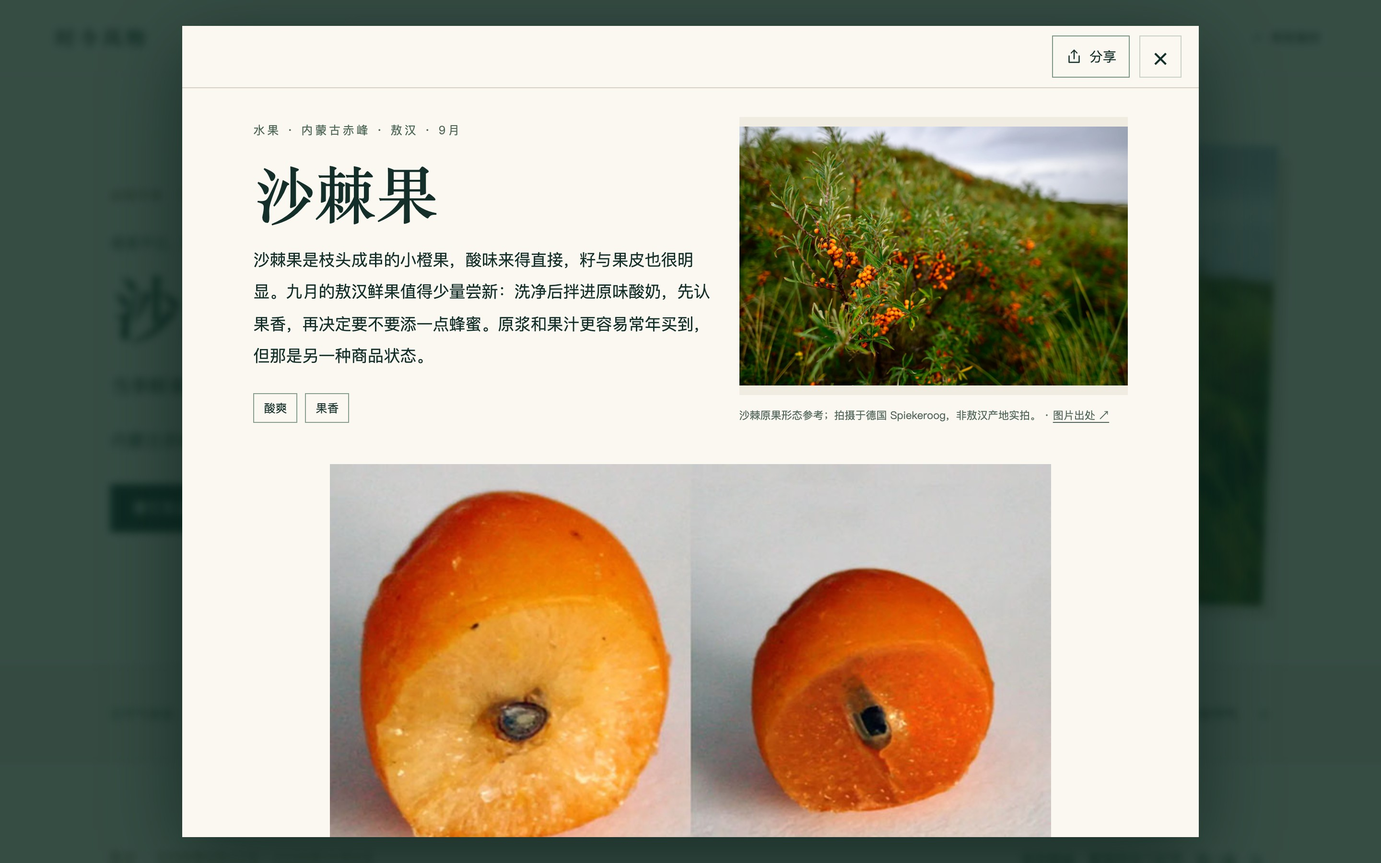
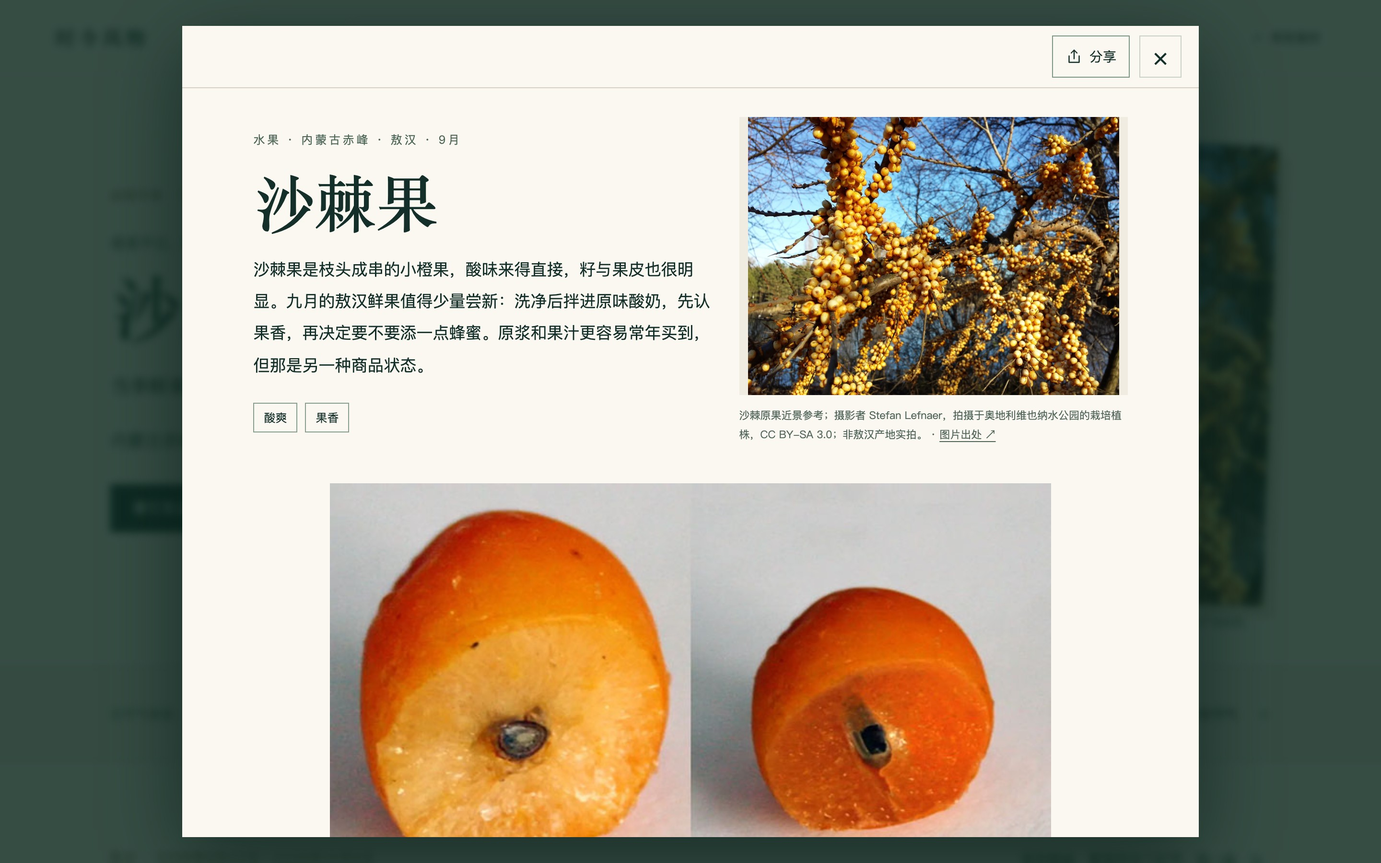
Improve food photo clarity and seasonal interlude

diff --git a/dist/app.js b/dist/app.js
@@ -64,23 +64,26 @@ function featuredAssignment(category){
 // Curated image roles affect presentation only; food facts and draw rules stay in the source data.
 const wholeSubjects=new Set(['lyg-shaguang-fish','ninghai-changjie-razor-clam','jintang-fresh-morel','shajiguo','lintong-huojing-shizi','juema','cizhousun']);
 const imageDimensions={'assets/shajiguo-cut.jpg':[720,405],'assets/lintong-huojing.webp':[600,450],'assets/juema-roots-enhanced.webp':[750,481],'assets/cizhousun-salad.jpg':[1400,929]};
-const shajiguoSrcset='assets/shajiguo-400.webp 400w, assets/shajiguo-800.webp 800w, assets/shajiguo-1200.webp 1200w, assets/shajiguo-1600.webp 1600w';
+const shajiguoSrcset='assets/shajiguo-400.webp 400w, assets/shajiguo-800.webp 800w, assets/shajiguo-1280.webp 1280w, assets/shajiguo-1600.webp 1600w';
+const shootSrcset='assets/cizhousun-shoot-400.webp 400w, assets/cizhousun-shoot-800.webp 800w, assets/cizhousun-shoot-1200.webp 1200w';
 function foodImageAttrs(src,slot='card'){
  if(src==='assets/shajiguo-400.webp'){
   const sizes={hero:'(max-width:520px) 86vw, (max-width:800px) 90vw, (max-width:1400px) 43vw, 603px','feature-card':'(max-width:520px) 110vw, (max-width:800px) 100vw, (max-width:1400px) 43vw, 603px',card:'(max-width:520px) 31vw, 16vw',recognition:'(max-width:520px) 86vw, (max-width:800px) 80vw, 405px',aside:'350px'};
-  return `srcset="${shajiguoSrcset}" sizes="${sizes[slot]||'100vw'}" width="400" height="267" decoding="async"`;
+  return `srcset="${shajiguoSrcset}" sizes="${sizes[slot]||'100vw'}" width="400" height="598" decoding="async"`;
  }
+ if(src==='assets/cizhousun-shoot-400.webp')return `srcset="${shootSrcset}" sizes="${slot==='recognition'?'(max-width:800px) 80vw, 405px':'(max-width:520px) 31vw, 16vw'}" width="400" height="300" decoding="async"`;
  const dimensions=imageDimensions[src];
  return dimensions?`width="${dimensions[0]}" height="${dimensions[1]}" decoding="async"`:'';
 }
 function foodVisual(food,role='appetite'){
  const homeFruitPhoto=role==='appetite'&&food.id==='shajiguo';
- const edible=role==='appetite'&&!homeFruitPhoto&&(food.dishImage||food.cutImage);
- const originalSrc=homeFruitPhoto?food.image:edible||(role==='recognition'?food.image:food.cardImage)||food.image||food.cardImage;
+ const homeShootPhoto=role==='appetite'&&food.id==='cizhousun';
+ const edible=role==='appetite'&&!homeFruitPhoto&&!homeShootPhoto&&(food.dishImage||food.cutImage);
+ const originalSrc=homeFruitPhoto||homeShootPhoto?food.image:edible||(role==='recognition'?food.image:food.cardImage)||food.image||food.cardImage;
  const src=originalSrc==='assets/shajiguo.jpg'?'assets/shajiguo-400.webp':originalSrc;
- const alt=homeFruitPhoto?food.imageAlt:edible?(food.dishImage?food.dishImageAlt:food.cutImageAlt):(role==='recognition'?food.imageAlt:food.cardImageAlt)||food.imageAlt||food.name;
+ const alt=homeFruitPhoto||homeShootPhoto?food.imageAlt:edible?(food.dishImage?food.dishImageAlt:food.cutImageAlt):(role==='recognition'?food.imageAlt:food.cardImageAlt)||food.imageAlt||food.name;
  const generated=/generated|示意/.test(`${src} ${alt}`);
- return {src,alt,fit:role==='recognition'&&wholeSubjects.has(food.id)?'contain':'cover',note:generated?'生成示意 · 非实物摄影':homeFruitPhoto?food.imageCaption:edible?(food.dishImage?'成菜参考':'鲜果可食状态'):food.cardNote||food.imageCaption||'形态参考 · 非产地鉴别'};
+ return {src,alt,fit:role==='recognition'&&wholeSubjects.has(food.id)?'contain':'cover',note:generated?'生成示意 · 非实物摄影':homeFruitPhoto?food.imageCaption:homeShootPhoto?food.cardNote:edible?(food.dishImage?'成菜参考':'鲜果可食状态'):food.cardNote||food.imageCaption||'形态参考 · 非产地鉴别'};
 }
 function renderTermRail(){
  $('terms').innerHTML=termWindow.map((event,index)=>`<button class="${event===selectedTerm?'active':''}" data-term="${index}" aria-current="${event===selectedTerm?'date':'false'}"><small>${dateText(event.time,true)}</small><strong>${termNames[event.index]}</strong></button>`).join('');
@@ -116,7 +119,7 @@ function renderSeason(){
  $('seasonIntro').textContent=visibleList.length?'有些鲜味，要等到这个时节。挑一味，认一认，再把它端上桌。':`这个节气暂时没有${categoryNames[selectedCategory]}风物。`;
  $('seasonCards').innerHTML=visibleList.length?visibleList.map((food,index)=>{
  const media=foodVisual(food,index<3?'appetite':'recognition');
- return `<article class="season-list-card ${index===0?'editorial-feature':index<3?'editorial-side':'editorial-brief'}"><figure class="season-list-photo">${media.src?`<button data-food="${food.id}" class="season-list-image-button" aria-label="查看${food.name}详情"><img src="${media.src}" alt="${media.alt}" ${foodImageAttrs(media.src,index===0?'feature-card':'card')} style="object-fit:${media.fit}" loading="lazy" decoding="async"></button>`:'<div class="season-list-image-empty" aria-hidden="true">时令风物</div>'}<figcaption class="photo-credit">${media.note}</figcaption></figure><div><small>${foodSeasonMeta(food,foodMonth,food.cardLabel||food.region)}</small><h3><button data-food="${food.id}" class="season-list-name">${nameWithIcon(food)}</button></h3><p>${food.short}</p><button data-food="${food.id}" data-recipe="true" aria-label="直接看${food.name}做法">看它怎么吃 <span aria-hidden="true">↗</span></button></div></article>${index===2?`<aside class="season-interlude"><img src="assets/jieqi/${termSlugs[selectedTerm.index]}.svg" alt="" loading="lazy"><div><p class="kicker">山川有时 · 鲜味有期</p><p>${termLines[selectedTerm.index]}</p></div><a href="tarot.html">今晚吃什么？问问牌桌 ↗</a></aside>`:''}`;
+ return `<article class="season-list-card ${index===0?'editorial-feature':index<3?'editorial-side':'editorial-brief'}"><figure class="season-list-photo">${media.src?`<button data-food="${food.id}" class="season-list-image-button" aria-label="查看${food.name}详情"><img src="${media.src}" alt="${media.alt}" ${foodImageAttrs(media.src,index===0?'feature-card':'card')} style="object-fit:${media.fit}" loading="lazy" decoding="async"></button>`:'<div class="season-list-image-empty" aria-hidden="true">时令风物</div>'}<figcaption class="photo-credit">${media.note}</figcaption></figure><div><small>${foodSeasonMeta(food,foodMonth,food.cardLabel||food.region)}</small><h3><button data-food="${food.id}" class="season-list-name">${nameWithIcon(food)}</button></h3><p>${food.short}</p><button data-food="${food.id}" data-recipe="true" aria-label="直接看${food.name}做法">看它怎么吃 <span aria-hidden="true">↗</span></button></div></article>${index===2?`<aside class="season-interlude term-art-${selectedTerm.index%4}"><img src="assets/jieqi/${termSlugs[selectedTerm.index]}.svg" alt="" loading="lazy"><div><p class="kicker">山川有时 · 鲜味有期</p><p>${termLines[selectedTerm.index]}</p></div><a href="tarot.html">今晚吃什么？问问牌桌 ↗</a></aside>`:''}`;
  }).join(''):`<p class="empty-month category-empty">本节气适合尝的几味风物都在上面了。</p>`;
   document.querySelectorAll('#hero [data-food],#seasonCards [data-food]').forEach(b=>b.onclick=()=>openFood(b.dataset.food,true,b.dataset.recipe==='true'));
 }

diff --git a/dist/fengwu-design.css b/dist/fengwu-design.css
@@ -32,8 +32,8 @@
 .editorial-feature .season-list-photo{height:clamp(330px,33vw,470px);width:100%;flex:none}
 .editorial-feature h3{font-size:36px}.editorial-feature>div{width:100%;align-self:start;padding-bottom:20px}
 .editorial-side{grid-column:2}.editorial-brief .season-list-photo{min-height:180px}
-.season-interlude{grid-column:1/-1;display:flex;align-items:center;gap:28px;margin:6px 0 18px;padding:28px 34px;background:#edeadf;min-width:0;border-top:1px solid #d7cfba;border-bottom:1px solid #d7cfba}
-.season-interlude img{width:110px;height:90px;object-fit:cover;flex:none}.season-interlude .kicker{font-size:10px;margin:0 0 8px}.season-interlude div>p:last-child{font:22px/1.7 'Songti SC','SimSun',serif;margin:0}.season-interlude a{margin-left:auto;max-width:180px;font-size:13px;line-height:1.8;color:var(--ink);min-height:44px;display:flex;align-items:center;text-underline-offset:5px}
+.season-interlude{grid-column:1/-1;display:grid;grid-template-columns:minmax(260px,34%) 1fr auto;align-items:center;gap:28px;margin:6px 0 18px;padding:28px 34px;background:#edeadf;min-width:0;border-top:1px solid #d7cfba;border-bottom:1px solid #d7cfba}
+.season-interlude img{width:100%;height:100%;min-height:132px;max-height:214px;object-fit:cover;flex:none}.season-interlude.term-art-0 img{height:148px}.season-interlude.term-art-1 img{height:184px}.season-interlude.term-art-2 img{height:214px}.season-interlude.term-art-3 img{height:164px}.season-interlude .kicker{font-size:10px;margin:0 0 8px}.season-interlude div>p:last-child{font:22px/1.7 'Songti SC','SimSun',serif;margin:0}.season-interlude a{margin-left:auto;max-width:180px;font-size:13px;line-height:1.8;color:var(--ink);min-height:44px;display:flex;align-items:center;text-underline-offset:5px}
 .map-prompt{margin-bottom:70px;min-height:76px}
 /* A readable article, with raw recognition and appetite given different jobs. */
 .detail-dialog{width:min(1060px,96vw)}.detail-actions{background:#faf8f1f5;border-color:var(--line)}.detail-actions .dialog-close{width:44px;height:44px}.detail-share{min-height:44px;background:var(--paper);color:var(--ink)}
@@ -56,7 +56,7 @@
  #hero.term-hero{grid-template-columns:minmax(0,1fr);grid-template-areas:'copy' 'photo';padding:30px 7vw 60px;gap:24px}.season-feature-copy{padding:0}#hero .season-feature-copy h1{font-size:clamp(42px,12vw,60px);margin-bottom:14px}#hero .season-feature-term{margin:14px 0 5px!important;font-size:13px!important}#hero .season-feature-summary{font-size:18px!important;line-height:1.8!important;margin-bottom:12px!important}.season-feature-meta{font-size:12px;margin-bottom:18px}.season-feature-cta{min-height:48px;width:100%;justify-content:space-between}.season-feature-photo{height:clamp(220px,68vw,360px);width:100%;transform:rotate(1deg)}.feature-caption{padding-top:15px;transform:rotate(-1deg);font-size:10px}.season-feature-image-button{box-shadow:7px 7px 0 #e5dfcf}
  .term-strip{padding:18px 7vw;min-height:0}.term-strip .strip-label{display:flex;gap:12px}.strip-label span{font-size:11px}.strip-label strong{font-size:24px}.term-almanac{width:100%;margin:8px 0 0}.term-almanac summary{justify-content:space-between;border-top:1px solid var(--line);padding-top:9px}
  .section-intro{padding:42px 7vw 18px;display:block}.section-intro h2{font-size:27px}.section-intro>p{max-width:100%;font-size:13px;margin-bottom:0}.section-intro .kicker{letter-spacing:.07em;font-size:10px}.category-filter{padding:0 7vw 26px;gap:6px}.category-filter button{padding:0 11px;font-size:12px;gap:6px}
- .season-cards{grid-template-columns:1fr;gap:24px;padding:0 7vw 50px}.editorial-feature{grid-column:auto;grid-row:auto;gap:18px}.editorial-side{grid-column:auto}.editorial-feature .season-list-photo{height:clamp(240px,78vw,360px)}.editorial-feature h3{font-size:32px}.season-list-card{grid-template-columns:36% 1fr;gap:16px;padding-bottom:20px}.season-list-photo,.editorial-brief .season-list-photo{min-height:175px}.season-list-card small{font-size:11px}.season-list-card h3{font-size:23px}.season-list-card p{font-size:13px;line-height:1.8}.photo-credit{font-size:9px;line-height:1.6;padding:5px 6px}.season-interlude{display:grid;grid-template-columns:64px 1fr;gap:16px;padding:22px 15px;margin:0}.season-interlude img{width:64px;height:80px}.season-interlude .kicker{font-size:9px;letter-spacing:.06em}.season-interlude div>p:last-child{font-size:19px}.season-interlude a{grid-column:2;max-width:none;margin:0;font-size:12px}.map-prompt{width:86%;padding:16px 20px;margin-bottom:55px;min-height:72px}
+ .season-cards{grid-template-columns:1fr;gap:24px;padding:0 7vw 50px}.editorial-feature{grid-column:auto;grid-row:auto;gap:18px}.editorial-side{grid-column:auto}.editorial-feature .season-list-photo{height:clamp(240px,78vw,360px)}.editorial-feature h3{font-size:32px}.season-list-card{grid-template-columns:36% 1fr;gap:16px;padding-bottom:20px}.season-list-photo,.editorial-brief .season-list-photo{min-height:175px}.season-list-card small{font-size:11px}.season-list-card h3{font-size:23px}.season-list-card p{font-size:13px;line-height:1.8}.photo-credit{font-size:9px;line-height:1.6;padding:5px 6px}.season-interlude{grid-template-columns:1fr;gap:16px;padding:20px 15px;margin:0}.season-interlude img{width:100%;min-height:0;max-height:none}.season-interlude.term-art-0 img{height:148px}.season-interlude.term-art-1 img{height:176px}.season-interlude.term-art-2 img{height:198px}.season-interlude.term-art-3 img{height:160px}.season-interlude .kicker{font-size:9px;letter-spacing:.06em}.season-interlude div>p:last-child{font-size:19px}.season-interlude a{grid-column:auto;max-width:none;margin:0;font-size:12px}.map-prompt{width:86%;padding:16px 20px;margin-bottom:55px;min-height:72px}
  .detail-dialog{width:100vw;max-height:100dvh;height:100dvh;margin:0;border-radius:0}.detail-intro{grid-template-columns:1fr;gap:24px;padding:28px 7%}.detail-hero h1{font-size:42px}.detail-hero>p{font-size:16px}.recognition-photo img{height:220px;object-position:center}.detail-photo{padding-bottom:18px}.detail-photo img{max-height:360px}.detail-body section{padding:30px 0}.detail-body h2{font-size:25px}.detail-num{font-size:11px}.detail-tags{margin-top:16px}.recipe-teaser{padding:16px;gap:8px}.recipe-teaser strong{line-height:1.6}.recipe-teaser button{width:100%;margin:8px 0 0}.sensory>div{grid-template-columns:56px 1fr;gap:12px}.detail-next>div{grid-template-columns:1fr}.detail-body .detail-sources{padding:18px}.detail-sources ol{padding-left:20px}.detail-body section>p:not(.detail-num){font-size:15px;line-height:1.95}
  .map-popover{transform:none}.map-toolbar{padding:0 6vw 10px}.map-month-rail{padding:0 6vw}.flavor-space{height:390px;min-height:390px}.flavor-selected-photo{height:220px}.flavor-aside h2{font-size:32px}.flavor-meaning{font-size:10px}
 }

diff --git a/dist/credits.html b/dist/credits.html
@@ -14,7 +14,7 @@
 <li>软枣猕猴桃：<a href="https://commons.wikimedia.org/wiki/File:20240928_Kiwibeeren_-_actinidia_arguta_anagoria.jpg">anagoria / Wikimedia Commons</a>，<a href="https://creativecommons.org/licenses/by-sa/4.0/">CC BY-SA 4.0</a>。</li>
 <li>干黄花菜：<a href="https://commons.wikimedia.org/wiki/File:Dried_day_lily.jpg">François Nguyen / Wikimedia Commons</a>，<a href="https://creativecommons.org/licenses/by/2.0/">CC BY 2.0</a>。</li>
 <li>刺梨：<a href="https://commons.wikimedia.org/wiki/File:Rosa_roxburghii_fruit_33597.JPG">Michael Wolf / Wikimedia Commons</a>，<a href="https://creativecommons.org/licenses/by-sa/3.0/">CC BY-SA 3.0</a>；拍摄于奥地利林茨。</li>
-<li>沙棘果：首页与辨识图使用 Stephan Sprinz / Wikimedia Commons 的<a href="https://commons.wikimedia.org/wiki/File:Sanddorn_(Hippophae_rhamnoides)_auf_Spiekeroog_02.jpg">原始照片</a>（5593×3729），按显示尺寸缩小并转换为 sRGB WebP；<a href="https://creativecommons.org/licenses/by/4.0/">CC BY 4.0</a>。照片拍摄于德国 Spiekeroog，非敖汉产地实拍。</li>
+<li>沙棘果：首页与辨识图使用 Hans Hillewaert / Wikimedia Commons 的<a href="https://commons.wikimedia.org/wiki/File:Hippophae_rhamnoides.jpg">原始照片</a>（2012×3006），按显示尺寸缩小并转换为 sRGB WebP，衍生版本亦以 <a href="https://creativecommons.org/licenses/by-sa/3.0/">CC BY-SA 3.0</a> 授权；照片展示果实近景，拍摄于比利时 De Haan，非敖汉产地实拍。</li>
 <li>芡实植株：<a href="https://commons.wikimedia.org/wiki/File:Euryale_ferox,_Jard%C3%ADn_Bot%C3%A1nico,_M%C3%BAnich,_Alemania,_2013-09-08,_DD_01.JPG">Diego Delso / Wikimedia Commons</a>，<a href="https://creativecommons.org/licenses/by-sa/3.0/">CC BY-SA 3.0</a>；拍摄于德国慕尼黑植物园。</li>
 <li>川梨花：<a href="https://commons.wikimedia.org/wiki/File:Flowers_of_Pyrus_pashia.jpg">Frank Schulenburg / Wikimedia Commons</a>，<a href="https://creativecommons.org/licenses/by-sa/3.0/">CC BY-SA 3.0</a>；拍摄于美国加州。</li>
 <li>苦刺花：<a href="https://commons.wikimedia.org/wiki/File:Sophora_davidii_-_Floraison-2.jpg">Denis.prévôt / Wikimedia Commons</a>，<a href="https://creativecommons.org/licenses/by-sa/3.0/">CC BY-SA 3.0</a>；拍摄于法国斯特拉斯堡。</li>
@@ -22,7 +22,7 @@
 <li>蒌蒿嫩茎：<a href="https://commons.wikimedia.org/wiki/File:Artemisia_selengensis_(1).jpg">François Nguyen / Wikimedia Commons</a>，<a href="https://creativecommons.org/licenses/by/2.0/">CC BY 2.0</a>；拍摄于江苏。</li>
 <li>塌棵菜：<a href="https://commons.wikimedia.org/wiki/File:Brassica_rapa_subsp_narinosa_-_Kanagawa_Japan_2026_Jan_3.jpeg">Nesnad / Wikimedia Commons</a>，<a href="https://creativecommons.org/licenses/by/4.0/">CC BY 4.0</a>；拍摄于日本神奈川。</li>
 <li>枞菌形态参考：<a href="https://commons.wikimedia.org/wiki/File:Lactarius_deliciosus_(1169941953).jpg">Sandra Cohen-Rose、Colin Rose / Wikimedia Commons</a>，<a href="https://creativecommons.org/licenses/by/2.0/">CC BY 2.0</a>；松乳菇（Lactarius deliciosus），并非所有地方俗称“枞菌”的菌种。</li>
-<li>竹笋形态参考：<a href="https://commons.wikimedia.org/wiki/File:Bamboo_shoot-phyllostachys_parvifolia-jx1241c.jpg">Jodarom / Wikimedia Commons</a>，<a href="https://creativecommons.org/licenses/by/3.0/">CC BY 3.0</a>；Phyllostachys parvifolia，非腾冲刺竹品种实拍。</li>
+<li>新鲜竹笋形态参考：Gaurav Dhwaj Khadka / Wikimedia Commons 的<a href="https://commons.wikimedia.org/wiki/File:Bamboo_Shoot.jpg">实拍原图</a>（4032×3024）；响应式 WebP 衍生版本以 <a href="https://creativecommons.org/licenses/by-sa/4.0/">CC BY-SA 4.0</a> 授权。照片拍摄于尼泊尔加德满都，竹种未注明，不代表腾冲刺竹地方品种。</li>
 <li>鲜鸡头米颗粒形态示意图：OpenAI 图像生成工具，2026 年 9 月制作；非实物照片。</li>
 <li>地图地形、海岸与水系：<a href="https://www.naturalearthdata.com/about/terms-of-use/">Natural Earth</a>，公共领域。</li>
 <li>海胆形态参考：<a href="https://commons.wikimedia.org/wiki/File:Strongylocentrotus_nudus.jpg">Totti / Wikimedia Commons</a>，<a href="https://creativecommons.org/licenses/by-sa/4.0/">CC BY-SA 4.0</a>；拍摄于日本水族馆。</li>

diff --git a/dist/editorial.js b/dist/editorial.js
@@ -262,7 +262,7 @@ for(const food of window.FOODS){
      {name:'贵州普定',lat:26.33,lon:105.75,months:[7],precision:'month',source:'https://gz.people.com.cn/n2/2026/0721/c194849-41645206.html'}]:
     [{name:food.region,lat:food.lat,lon:food.lon,months:food.peakMonths,precision:food.seasonPrecision||'month',source:food.sources[0][1]}];
   if(food.id==='cili'){food.image='assets/cili.jpg';food.imageAlt='枝头成熟的刺梨果实';food.imageCaption='刺梨原果形态参考；照片拍摄于奥地利林茨，并非贵州清镇。'}
-  if(food.id==='shajiguo'){food.image='assets/shajiguo.jpg';food.imageAlt='枝头簇生的橙黄色沙棘果';food.imageCaption='沙棘原果形态参考；拍摄于德国 Spiekeroog，非敖汉产地实拍。'}
+  if(food.id==='shajiguo'){food.image='assets/shajiguo.jpg';food.imageAlt='橙黄色沙棘果实成簇贴着枝条生长，果皮表面和叶片清晰可见';food.imageCaption='沙棘果近景形态参考；摄影者 Hans Hillewaert，拍摄于比利时 De Haan，CC BY-SA 3.0；非敖汉产地实拍。'}
 }
 const PHOTO_UPDATES={
   'nanhu-ling':{dishImage:'assets/nanhu-ling-peeled-cooked.jpg',dishImageAlt:'煮熟剥壳的菱肉拌少许葱花盛盘',dishCaption:'剥去硬壳，熟菱肉白里透粉；趁温热吃，先是清甜，嚼下去有紧实的粉糯。'},
@@ -328,10 +328,10 @@ const PAIR_NOTES={
 for(const food of window.FOODS)if(PAIR_NOTES[food.id])food.pair=PAIR_NOTES[food.id];
 
 Object.assign(window.FOODS.find(food=>food.id==='cizhousun'),{
-  image:'assets/cizhousun-bamboo-shoot.jpg',
-  imageAlt:'生长中的竹笋，带笋箨和叶片',
-  imageCaption:'Phyllostachys parvifolia 竹笋形态参考；摄影者 Jodarom，CC BY 3.0。并非腾冲刺竹的地方品种实拍。',
-  cardNote:'竹笋形态参考 · 非腾冲刺竹实拍'
+  image:'assets/cizhousun-shoot-400.webp',
+  imageAlt:'市场上并排摆放的数支新鲜去壳竹笋，淡黄色笋肉清晰可见',
+  imageCaption:'新鲜竹笋形态参考；摄影者 Gaurav Dhwaj Khadka，拍摄于尼泊尔加德满都，CC BY-SA 4.0；非腾冲刺竹地方品种实拍。',
+  cardNote:'新鲜竹笋实拍参考 · 非腾冲刺竹实拍'
 });
 Object.assign(window.FOODS.find(food=>food.id==='congjun'),{
   image:'assets/congjun-lactarius-deliciosus.jpg',

diff --git a/docs/FOOD_PHOTO_CLARITY_QA.md b/docs/FOOD_PHOTO_CLARITY_QA.md
@@ -1,54 +1,40 @@
-# 食品实拍图清晰度优化记录
+# 食品实拍图清晰度与版面复核
 
-基于 GitHub `main` 的 `60f2d2d5e809f184420e7f33e207fe9e097269a5`。改动限于食品照片的尺寸信息、裁切方式和沙棘响应式加载；没有改网站整体样式、食品数据或卡牌图片。
+依据仓库基线 `main@60f2d2d5e809f184420e7f33e207fe9e097269a5`；此前未提交状态先行保留。此次只处理食品实拍、图片响应式加载、食品图片说明，以及用户指出的节气插图尺寸和笋图可辨识度；不改卡牌插画和全站风格。
 
-## 改动与来源
+## 本轮可见改动
 
-| 图片 | 原有状态 | 本次处理 | 来源与许可 |
-| --- | --- | --- | --- |
-| 沙棘首页大图、详情辨识图 | 首页使用 `shajiguo-cut.jpg`（720×405、50,624 B）并在近方形画框中 `cover`；详情辨识图也用较小图 | 改用枝头整果实拍；由原片等比例生成 400、800、1200、1600 px 宽 WebP，加入 `srcset`/`sizes`/宽高，按显示槽位和密度选择；首页大图优先加载，列表继续懒加载；辨识图完整显示 | Stephan Sprinz / Wikimedia Commons，[原图及记录](https://commons.wikimedia.org/wiki/File:Sanddorn_(Hippophae_rhamnoides)_auf_Spiekeroog_02.jpg)，CC BY 4.0。原片 5593×3729，保存在 `source-images/shajiguo-original-commons.jpg`。拍摄于德国 Spiekeroog，仅作同种形态参考，不代表敖汉产地。 |
-
-原片已有嵌入 sRGB 配置。本次只做 Lanczos 等比例缩小、转 sRGB WebP（质量 90）；不裁切、不降噪、不锐化、不重绘、不生成细节。原片 SHA-256、署名和许可也记录于 `IMAGE_REGISTER.md` 与站内图片出处页。
-
-| 输出文件 | 尺寸 | 文件体积 |
-| --- | ---: | ---: |
-| `shajiguo-400.webp` | 400×267 | 33,198 B |
-| `shajiguo-800.webp` | 800×533 | 86,756 B |
-| `shajiguo-1200.webp` | 1200×800 | 147,378 B |
-| `shajiguo-1600.webp` | 1600×1067 | 212,882 B |
-
-## 重点照片盘点
-
-| 文件 | 源图/当前尺寸 | 展示与裁切 | 来源和许可 | 结论 |
-| --- | --- | --- | --- | --- |
-| `shajiguo-cut.jpg` | 720×405 | 首页原先近方形 `cover`；详情约 335×189（390px）或 752×423（1440px） | Finess 产品资料；未标开放许可，摄影者及品种信息待核 | 首页不再用。保留详情原图，等待许可明确、同品种且同食用部位的高清照片。1440px/DPR2 下源像素不足。 |
-| `lintong-huojing.webp` | 600×450 | 详情辨识图完整显示，不裁切 | FreshPlaza 报道图；作者及开放许可未注明，登记尺寸即 600×450 | 未找到有许可依据的同图高清原片；保留，待替换。现有 `lintong-huojing-cut.jpg` 为另一张 1080×720 详情食用状态图，不冒充同一原片。 |
-| `juema-roots-enhanced.webp` | 750×481；原文件 `juema-roots.png` 同尺寸 | 详情辨识图完整显示 | 石渠县政府页面配图；摄影者与开放许可未注明 | 登记显示它已做过轻微对比度、锐度增强。本次不再锐化、不放大、不改图，待高清授权来源。 |
-| `cizhousun-salad.jpg` | 站内 1400×929；登记原图 2448×1624 | 列表/详情使用既有裁切 | 下厨房用户食谱；页面未标开放许可。现图嵌入 Display P3 配置 | 未取得清晰许可前不复制原图或替换。若授权核实，应按原图尺寸裁切并保留/正确转换色彩配置。 |
-
-上述重点文件的 `width`/`height` 属性现按登记尺寸填写，避免加载时版面跳动。沙棘、临潼火晶柿、蕨麻和刺竹笋的辨识图改为完整显示，防止辨识部位被裁掉；不对已经增强过的蕨麻图叠加滤镜。
-
-## 前后检查
-
-Playwright 模拟浏览器，390、320、1440 CSS px，DPR 2。截图是 JPEG 90 的浏览器截图；320px 下另以根字号 200% 做布局放大模拟。没有使用微信或真机验收。
-
-| 视图 | 改前 | 改后 |
+| 区域 | 修改 | 证据与许可 |
 | --- | --- | --- |
-| 首页 390px | [截图](photo-clarity-evidence/before-home-390.jpg) | [截图](photo-clarity-evidence/after-home-390.jpg) |
-| 首页 1440px | [截图](photo-clarity-evidence/before-home-1440.jpg) | [截图](photo-clarity-evidence/after-home-1440.jpg) |
-| 列表 390px | [截图](photo-clarity-evidence/before-list-390.jpg) | [截图](photo-clarity-evidence/after-list-390.jpg) |
-| 列表 1440px | [截图](photo-clarity-evidence/before-list-1440.jpg) | [截图](photo-clarity-evidence/after-list-1440.jpg) |
-| 沙棘详情 390px / 1440px | — | [390px](photo-clarity-evidence/after-detail-390.jpg) · [1440px](photo-clarity-evidence/after-detail-1440.jpg) |
-| 首页 320px / 文字放大模拟 | — | [320px](photo-clarity-evidence/after-home-320.jpg) · [200% 模拟](photo-clarity-evidence/after-text-200-320.jpg) |
+| 沙棘首页主图及详情辨识图 | 首页原为 720×405 剖面照，在近方形主图框中 `cover` 后果实细节不足。换成同种沙棘果实近景，原图 2012×3006；生成 400、800、1280、1600px 宽 sRGB WebP，保持原比例，加入 `srcset`/`sizes` 和尺寸属性。画框仍按 `cover` 局部显示；原图和完整比例版本保留。 | [Hans Hillewaert 原图及授权](https://commons.wikimedia.org/wiki/File:Hippophae_rhamnoides.jpg)，CC BY-SA 3.0；比利时 De Haan 拍摄，仅为同种形态参考，不代表敖汉产地。原图保存在 `docs/source-images/shajiguo-original-commons.jpg`，SHA-256 和衍生文件记录见 `IMAGE_REGISTER.md`。 |
+| 刺竹笋列表卡与详情辨识图 | 列表卡以前优先显示凉拌笋条，食材本身不醒目。现在展示多支新鲜去壳竹笋实拍，并生成 400、800、1200px WebP 版本；成菜照片仍按原用途留在详情。 | [Gaurav Dhwaj Khadka 原图及授权](https://commons.wikimedia.org/wiki/File:Bamboo_Shoot.jpg)，CC BY-SA 4.0；尼泊尔加德满都市场照片。照片未标竹种，故明确标为通用形态参考，不声称是腾冲刺竹品种。原图和 SHA-256 见 `IMAGE_REGISTER.md`。 |
+| 节气插段 | 保留原有节气 SVG 插画与文字，图片由统一小方块放大为主图，并依节气索引设置四种高度，手机端改为上下编排。当前秋分图在 390px 视口为 305×176px，在 1440px 视口为 388×184px。 | 沿用现有矢量插画，没有替换成生成图或新增不明来源照片。截图见下方。 |
 
-主图加载核对：390px/DPR2 选择 800w（文件 86,756 B），1440px/DPR2 选择 1600w（212,882 B）；首张列表大图在 390px 选择 1200w（147,378 B），且懒加载。320px/DPR2 选择 800w。页面滚动宽度在 320、390、1440px 均与视口相同。裁切后的编辑卡片使用单独 `sizes` 估算；小卡片仍使用较轻版本。浏览器按网络和缓存条件可以选择更大的候选图。
+衍生图均为常规等比例 Lanczos 缩小、WebP 质量 90，并嵌入 sRGB 配置；没有 AI 重绘、纹理重建、降噪或锐化。沙棘输出文件体积：400w 47,312 B、800w 125,294 B、1280w 239,698 B、1600w 338,866 B；鲜笋：400w 25,188 B、800w 62,936 B、1200w 103,990 B。
 
-相较原首页图 50,624 B，新的首屏图增加约 36 KB（390px）或 162 KB（1440px）；详情及首屏外图片仍由实际图片元素按需加载，不会把四种尺寸同时下载。这里记录的是本地静态文件体积与模拟页面行为，不代表微信内网速或真实加载耗时。
+## 加载和版面检查
 
-色彩检查未发现本次色彩处理偏移；沙棘果簇、叶片轮廓来自原始照片本身。现存切面图仍偏软，不能靠放大或锐化补足；需待授权清楚的高清实拍来源。
+Playwright + 本机 Chrome 模拟浏览器，视口 320/390/1440 CSS px、DPR 2；没有将模拟验收描述为微信或真机测试。
 
-## 验证
+| 检查项 | 结果 |
+| --- | --- |
+| 沙棘主图 `currentSrc` | 390px 与 320px 选 800w；1440px 选 1280w。主图 `loading=eager`、`fetchpriority=high`。 |
+| 刺竹笋卡片 `currentSrc` | 390px 选 400w；1440px 选 800w。详情辨识图分别选 800w、1200w，并完整展示。 |
+| 页面宽度 | 320、390、1440px 与布局根宽一致；根字号放大至 200% 的 320px 模拟也未产生横向溢出。 |
+| 页面截图 | [改前首页 390](photo-clarity-evidence/before-home-390.jpg) · [改后首页 390](photo-clarity-evidence/after-home-390.jpg) · [改前首页 1440](photo-clarity-evidence/before-home-1440.jpg) · [改后首页 1440](photo-clarity-evidence/after-home-1440.jpg) · [改后 320](photo-clarity-evidence/after-home-320.jpg) · [320 根字号 200% 模拟](photo-clarity-evidence/after-text-200-320.jpg) |
+| 用户指出的区域 | [刺竹笋卡片 390](photo-clarity-evidence/after-cizhousun-card-390.jpg) · [刺竹笋卡片 1440](photo-clarity-evidence/after-cizhousun-card-1440.jpg) · [节气插段 390](photo-clarity-evidence/after-interlude-390.jpg) · [节气插段 1440](photo-clarity-evidence/after-interlude-1440.jpg) · [竹笋详情 390](photo-clarity-evidence/after-cizhousun-detail-390.jpg) · [竹笋详情 1440](photo-clarity-evidence/after-cizhousun-detail-1440.jpg) |
 
-- `node --test tests/*.test.cjs`：145 项通过。
-- 模拟浏览器确认：首页主图 `fetchpriority=high`；非首屏列表图懒加载；390、320、1440px 无横向溢出。
-- 详情辨识图使用 `contain`，不裁去枝叶/果实；沙棘剖面图仍使用原尺寸文件。
+本机静态服务器上进行了布局、加载来源和截图复核。320/390/1440 的实测是模拟浏览器结果；没有推断微信缓存、网络速度或真实设备表现。
+
+## 仍待核实或替换
+
+| 图片 | 当前情况 | 后续处理 |
+| --- | --- | --- |
+| `shajiguo-cut.jpg`，720×405 | 原图来源页未标开放许可；仍留作剖面食用状态图。 | 找到同照片的高分辨率原图及许可前，不放大或锐化；当前首页已不再使用。 |
+| `lintong-huojing.webp`，600×450 | 高清屏辨识图像素仍不足，现有来源未能确认可授权的高清原图。 | 继续找可核同图原片；不以异品种照片冒充临潼火晶柿。 |
+| `juema-roots-enhanced.webp`，750×481 | 已经增强过，原始图源的再分发许可未明。 | 不重复锐化、不放大；等有许可的高清原图。 |
+| `cizhousun-salad.jpg`，1400×929 | 原图登记为 2448×1624，但下厨房页面未标开放许可；清晰许可待确认。 | 不复制受限原图。新卡片照片只作竹笋形态参考，地方刺竹品种照片仍待授权来源。 |
+
+## 测试
+
+`node --test tests/*.test.cjs`：145 项通过。修改没有触碰内容、抽取规则或塔罗行为。页面源文件和图片仍在审阅分支；本记录不代表已合并或发布。

diff --git a/IMAGE_REGISTER.md b/IMAGE_REGISTER.md
@@ -61,8 +61,8 @@
 | 大芥菜焖猪肉 | `dist/assets/conghua-mustard-pork.jpg` 800×600 | 800×600 | [Flambo「芥菜排骨」](https://flambo.com.tw/blogs/recipes/%E8%8A%A5%E8%8F%9C%E6%8E%92%E9%AA%A8-pork-ribs-with-gai-choy)，开放许可未注明 | 原图下载；同类鲜大芥菜与猪肉焖煮，非从化地方品种，主做法使用肉片而图中为排骨 |
 | 白肉枇杷剥开后果肉 | `dist/assets/ninghai-loquat-open.jpg` 767×574 | 767×574 | [三联生活周刊「白玉枇杷」](https://beta.lifeweek.com.cn/h5/article/detail.do?artId=246585)，开放许可未注明 | 原图下载，无改动；东山白玉枇杷，与宁海白不同产地品种，仅作白肉枇杷食用状态参考 |
 | 刺梨，同种异地形态参考 | `dist/assets/cili.jpg` 1920×1440 | 4032×3024 | [Michael Wolf](https://commons.wikimedia.org/wiki/File:Rosa_roxburghii_fruit_33597.JPG)，[CC BY-SA 3.0](https://creativecommons.org/licenses/by-sa/3.0/) | 缩小，无修复；拍摄于奥地利林茨 |
-| 沙棘，同种异地形态参考 | `dist/assets/shajiguo.jpg` 1920×1280；响应式版本见下行 | 5593×3729 | [Stephan Sprinz](https://commons.wikimedia.org/wiki/File:Sanddorn_(Hippophae_rhamnoides)_auf_Spiekeroog_02.jpg)，[CC BY 4.0](https://creativecommons.org/licenses/by/4.0/) | 同种鲜果、异地产地参考；拍摄于德国 Spiekeroog，不代表敖汉产地 |
[2 lines of base64/hex data omitted]
+| 沙棘首页及详情辨识图响应式版本 | `dist/assets/shajiguo-400.webp` 400×598、`shajiguo-800.webp` 800×1195、`shajiguo-1280.webp` 1280×1912、`shajiguo-1600.webp` 1600×2390 | 源图 `docs/source-images/shajiguo-original-commons.jpg` 2012×3006 | 同上 | 从 Commons 原图按比例缩小、转为 sRGB WebP（Pillow Lanczos、质量 90）；无降噪、锐化、修复或生成细节。相框按 object-fit:cover 显示局部，源图及完整比例变体保留 |
 | 芡实植株，鸡头米首页卡片 | `dist/assets/jitoumi-plant.jpg` 1920×1256 | 4543×2972 | [Diego Delso](https://commons.wikimedia.org/wiki/File:Euryale_ferox,_Jard%C3%ADn_Bot%C3%A1nico,_M%C3%BAnich,_Alemania,_2013-09-08,_DD_01.JPG)，[CC BY-SA 3.0](https://creativecommons.org/licenses/by-sa/3.0/) | 缩小；德国慕尼黑植物园拍摄，不能代表苏州鲜粒 |
 | 桂花糖水鸡头米成菜 | `dist/assets/jitoumi-soup.jpg` 1080×719 | 1080×719 | [凤凰网凰家尚品](https://mall.ifeng.com/c/8RW22jOXqa8)，网页未标开放许可 | 原图下载，无修改；依用户要求暂作非商业展示，许可仍需确认 |
 | 川梨花，棠梨花形态参考 | `dist/assets/tanglihua.jpg` 1920×2566 | 1966×2627 | [Frank Schulenburg](https://commons.wikimedia.org/wiki/File:Flowers_of_Pyrus_pashia.jpg)，[CC BY-SA 3.0](https://creativecommons.org/licenses/by-sa/3.0/) | 略缩小；美国加州植物园拍摄，不能涵盖棠梨花俗称下的其他梨属植物 |
@@ -73,7 +73,7 @@
 | 鲜鸡头米颗粒示意图，资料留存 | `dist/assets/jitoumi-illustration.png` 1536×1024 | 生成文件，无摄影原始尺寸 | OpenAI 图像生成工具，2026-09-25；非实物照片 | 根据鲜剥芡实粒的外观要求生成；详情页目前不展示 |
 | 地图地形、水系 | `dist/assets/atlas-relief.webp` 1600×1100 | 数据来源见链接 | [Natural Earth](https://www.naturalearthdata.com/about/terms-of-use/)，公共领域 | 地形着色与文字叠加 |
 | 枞菌形态参考：松乳菇 | `dist/assets/congjun-lactarius-deliciosus.jpg` 2283×2300 | 原图 2283×2300 | [Sandra Cohen-Rose、Colin Rose / Wikimedia Commons](https://commons.wikimedia.org/wiki/File:Lactarius_deliciosus_(1169941953).jpg)，[CC BY 2.0](https://creativecommons.org/licenses/by/2.0/) | 原图下载，无改动；松乳菇是湖南“枞菌”俗称所指的常见种之一，不代表所有地方菌种 |
-| 竹笋形态参考 | `dist/assets/cizhousun-bamboo-shoot.jpg` 1598×1692 | 原图 1598×1692 | [Jodarom / Wikimedia Commons](https://commons.wikimedia.org/wiki/File:Bamboo_shoot-phyllostachys_parvifolia-jx1241c.jpg)，[CC BY 3.0](https://creativecommons.org/licenses/by/3.0/) | 原图下载，无改动；Phyllostachys parvifolia，非腾冲刺竹地方品种 |
[1 lines of base64/hex data omitted]
 | 洱源海菜花，生境与花形参考 | `dist/assets/eryuan-haicaihua.jpg` 2592×1944 | 2592×1944 | [阿桥 HQ / Wikimedia Commons](https://commons.wikimedia.org/wiki/File:%E6%B5%B7%E8%8F%9C%E8%8A%B1_Ottelia_acuminata_-%E9%BA%97%E6%B1%9F%E9%BB%91%E9%BE%99%E6%BD%AD%E5%85%AC%E5%9B%AD_Lijiang,_China-_(9229896728).jpg)，[CC BY-SA 2.0](https://creativecommons.org/licenses/by-sa/2.0/) | 原尺寸下载；丽江黑龙潭拍摄，图中为花与生境，不是洱源食用嫩茎 |
 | 旬阳拐枣，肉质果梗参考 | `dist/assets/xunyang-guizao.jpg` 920×1050 | 920×1050 | [JMK / Wikimedia Commons](https://commons.wikimedia.org/wiki/File:Hovenia_dulcis,_fruit.jpg)，[CC BY-SA 3.0](https://creativecommons.org/licenses/by-sa/3.0/) | 原尺寸下载；拍摄地未注明，不代表旬阳地方实拍 |
 | 大连紫海胆，整只形态参考 | `dist/assets/dalian-purple-urchin.jpg` 1280×1106 | 3275×2831 | [Totti / Wikimedia Commons](https://commons.wikimedia.org/wiki/File:Strongylocentrotus_nudus.jpg)，[CC BY-SA 4.0](https://creativecommons.org/licenses/by-sa/4.0/) | 下载 1280 像素版本；日本水族馆个体，非大连渔获 |
